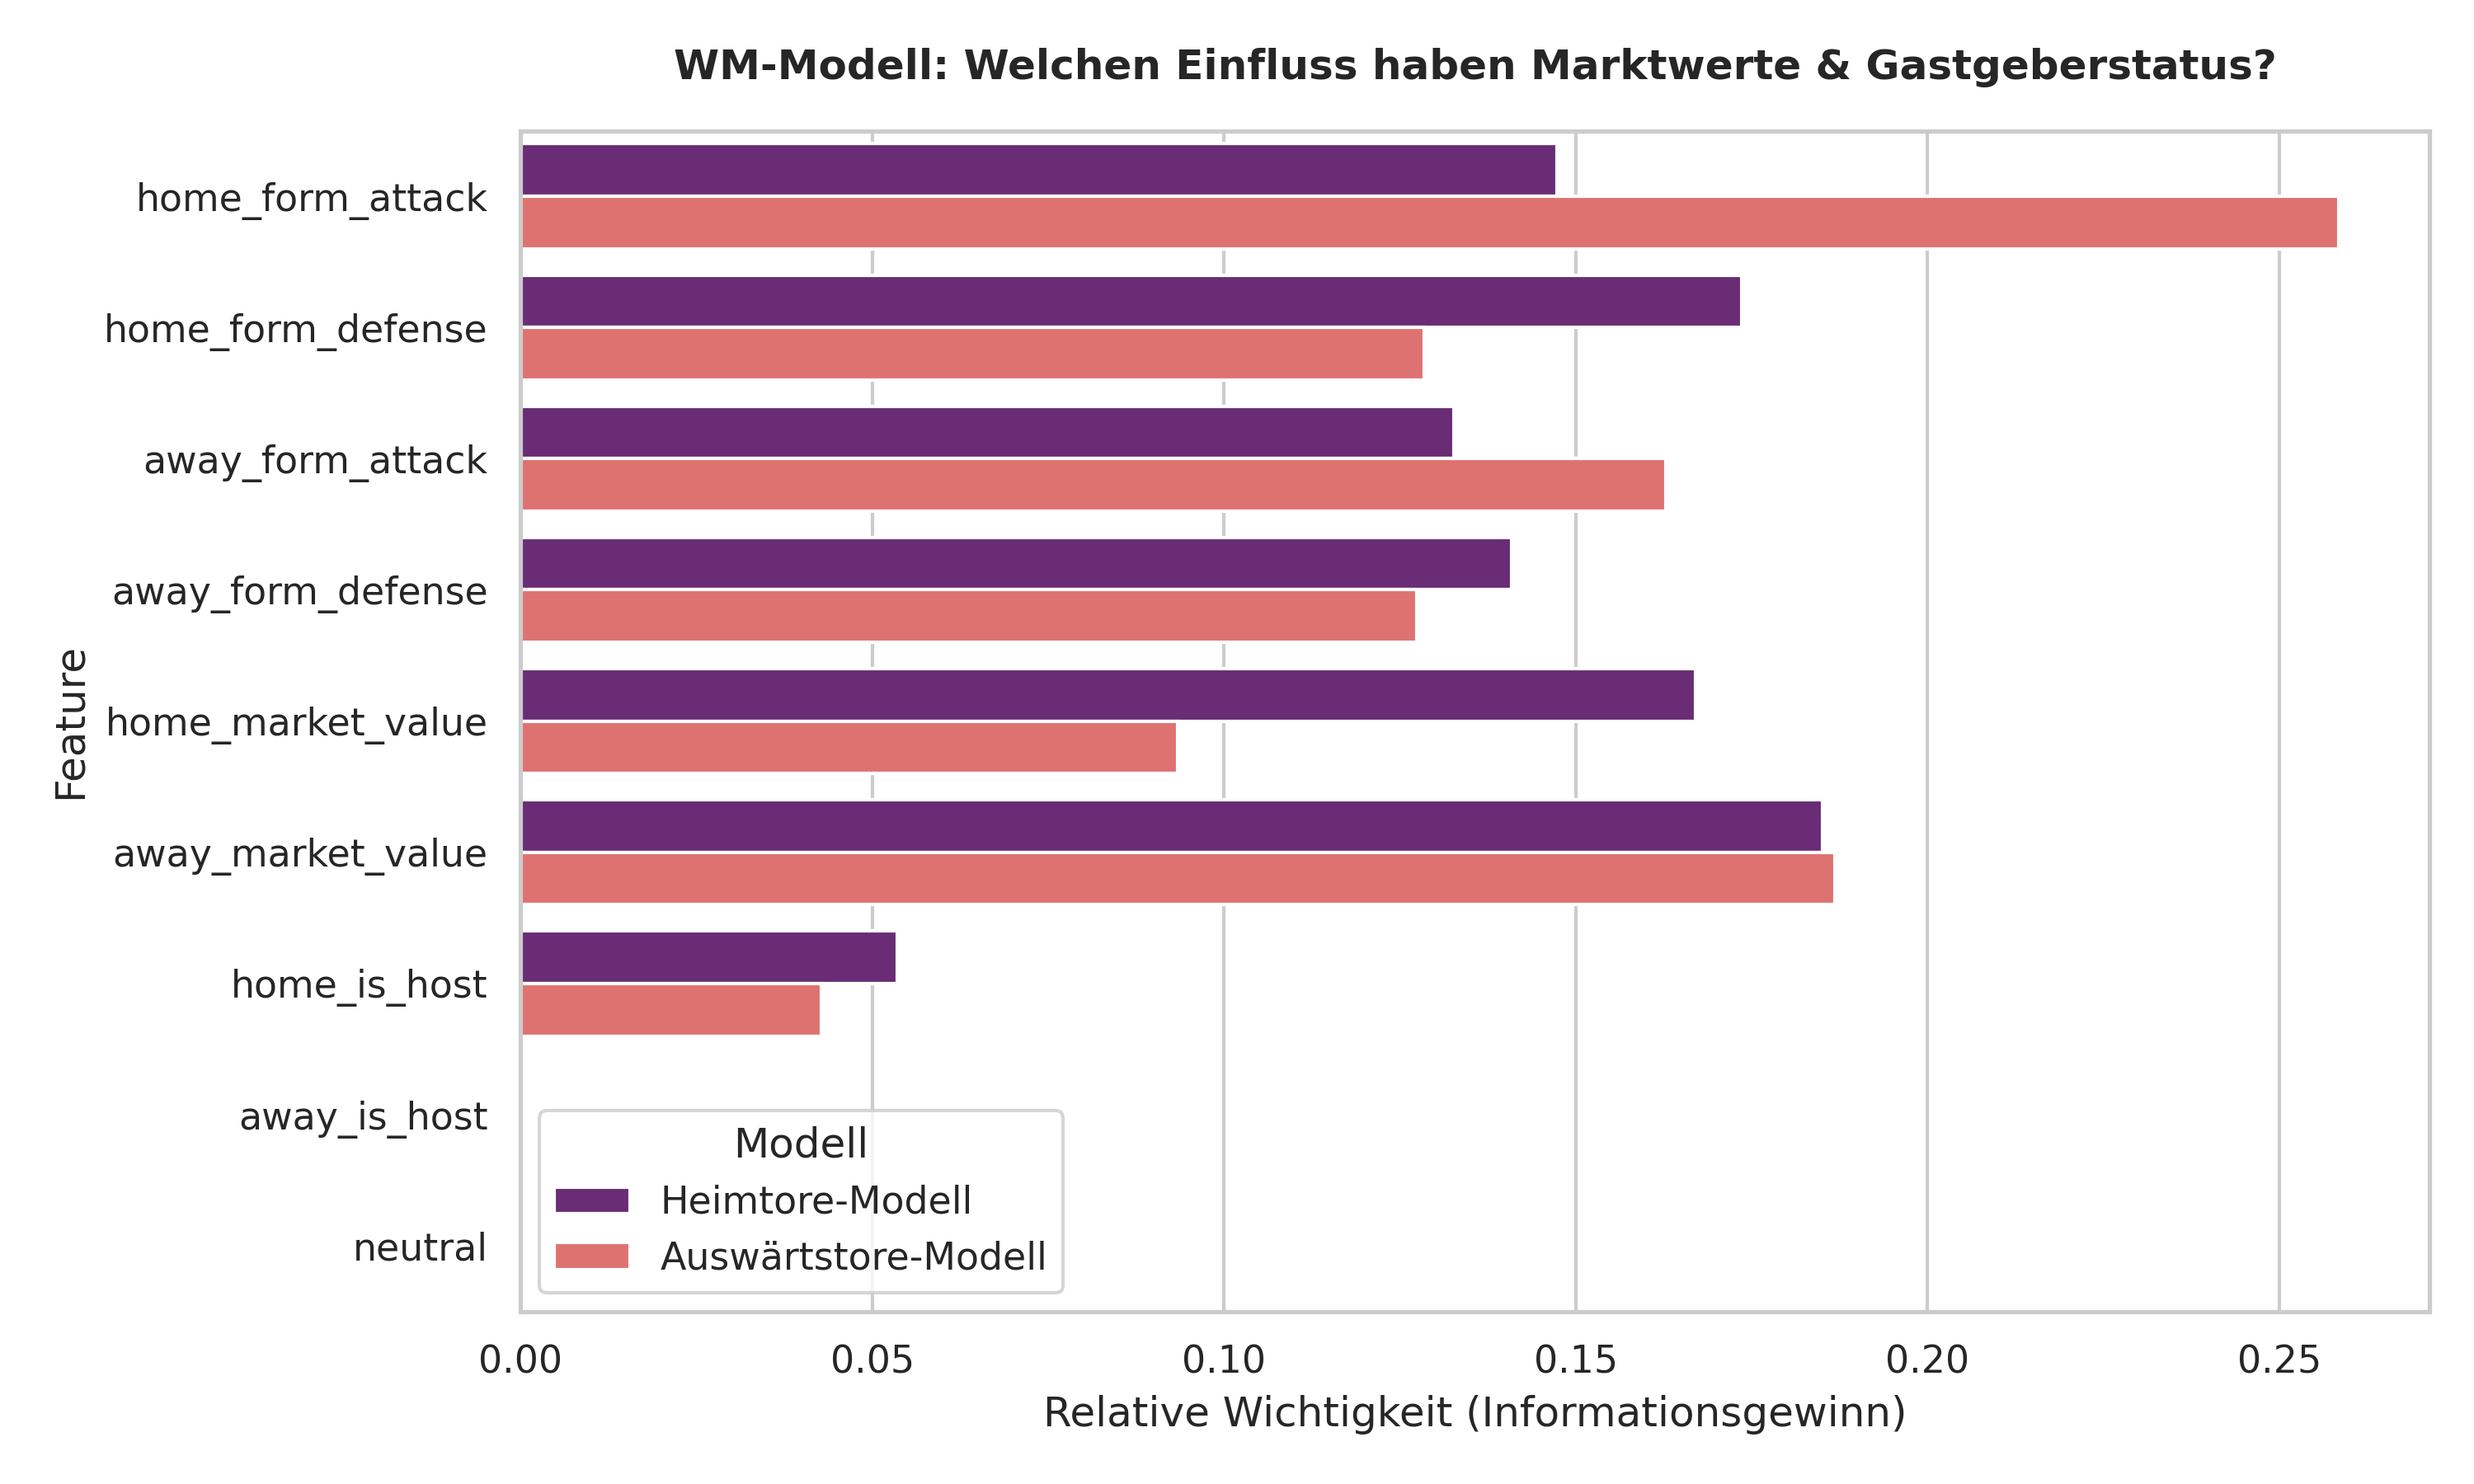
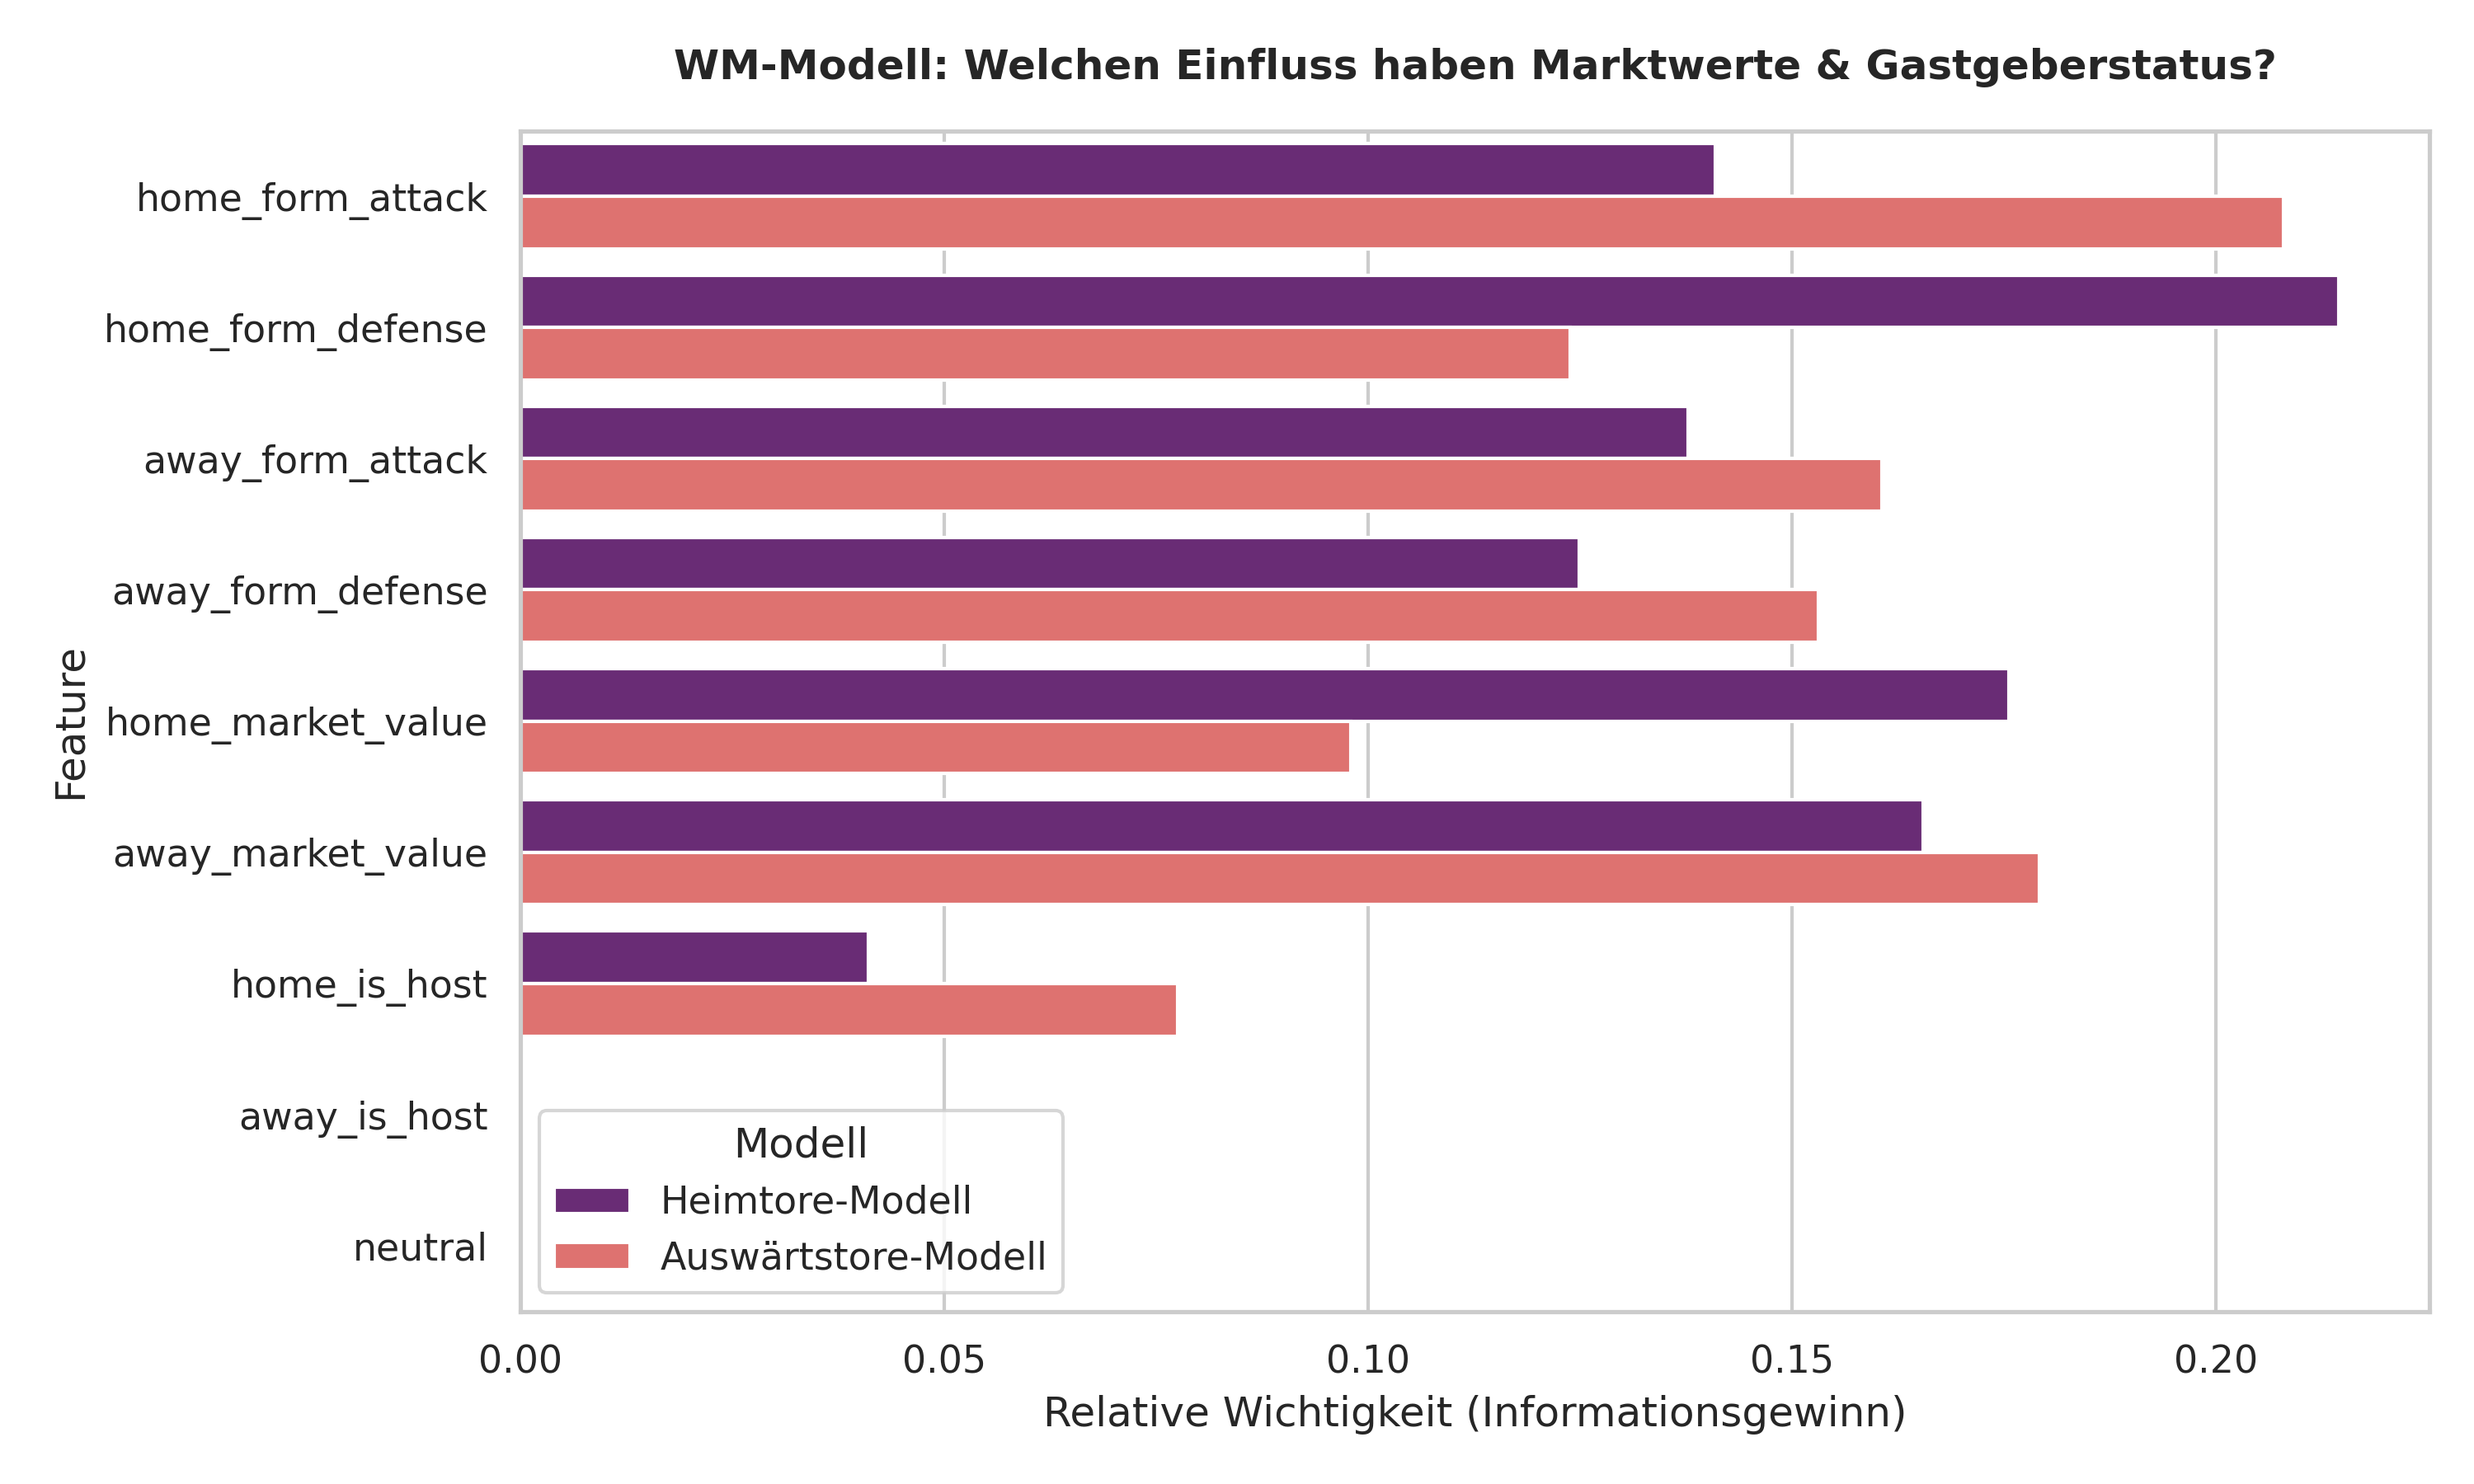
fix: geänderte Hyperparameter

diff --git a/train.py b/train.py
@@ -13,10 +13,29 @@ import yaml
 from sklearn.metrics import mean_absolute_error
 
 
+# Zentrale Hyperparameter für beide Modelle (Heim & Auswärts identisch).
+
+    n_estimators=220,
+    learning_rate=0.02,
+    max_depth=5,
+    subsample=0.7,
+    colsample_bytree=0.7,
+    reg_alpha=0.5,
+    reg_lambda=0.5,
+    random_state=42,
+)
+
+
 def load_config() -> dict:
     """Lädt die zentrale Konfigurationsdatei (config.yaml)."""
     with open("config.yaml", "r", encoding="utf-8") as f:
         return yaml.safe_load(f)
+
+
+def outcome_1x2_vec(home, away):
+    """1 = Heimsieg, 2 = Auswärtssieg, 0 = Remis (für ganze Arrays)."""
+    home, away = np.asarray(home), np.asarray(away)
+    return np.where(home > away, 1, np.where(home < away, 2, 0))
 
 
 def main():
@@ -80,31 +99,12 @@ def main():
     print(f"⚖ Time-Decay aktiv (λ={decay_rate}). "
           f"Gewichtsbereich: {weights.min():.3f} bis {weights.max():.3f}")
 
-    # Stark reguliert (max_depth=3, reg_alpha/lambda) gegen Overfitting auf kleinem Datensatz
-    print("🤖 Trainiere stark reguliertes Modell für HEIM-Tore...")
-    model_home = xgb.XGBRegressor(
-        n_estimators=120,
-        learning_rate=0.02,
-        max_depth=3,
-        subsample=0.7,
-        colsample_bytree=0.7,
-        reg_alpha=1.5,
-        reg_lambda=1.5,
-        random_state=42,
-    )
+    print("🤖 Trainiere Modell für HEIM-Tore...")
+    model_home = xgb.XGBRegressor(**MODEL_PARAMS)
     model_home.fit(X_train, y_home_train, sample_weight=weights)
 
-    print("🤖 Trainiere stark reguliertes Modell für AUSWÄRTS-Tore...")
-    model_away = xgb.XGBRegressor(
-        n_estimators=120,
-        learning_rate=0.02,
-        max_depth=3,
-        subsample=0.7,
-        colsample_bytree=0.7,
-        reg_alpha=1.5,
-        reg_lambda=1.5,
-        random_state=42,
-    )
+    print("🤖 Trainiere Modell für AUSWÄRTS-Tore...")
+    model_away = xgb.XGBRegressor(**MODEL_PARAMS)
     model_away.fit(X_train, y_away_train, sample_weight=weights)
 
     pred_home = model_home.predict(X_test)
@@ -122,10 +122,30 @@ def main():
     )
     print(f"   💡 Zum Vergleich der Turnier-Dummy-Tipp: {baseline_home_mae:.2f}")
 
+    # --- 🎯 Ergebnis-Metriken: messen, was "wer gewinnt" wirklich trifft ---
+    # 1X2 aus den KONTINUIERLICHEN Werten ableiten, nicht aus gerundeten Tipps —
+    # sonst verschwindet ein knapper Favoriten-Vorsprung (1.41 vs 1.05) im Runden.
+    pred_outcome = outcome_1x2_vec(pred_home, pred_away)
+    true_outcome = outcome_1x2_vec(y_home_test, y_away_test)
+    acc_1x2 = (pred_outcome == true_outcome).mean()
+
+    # Exact-Score: beide Tore (gerundet, ≥0) müssen exakt stimmen
+    ph = np.clip(np.round(pred_home), 0, None).astype(int)
+    pa = np.clip(np.round(pred_away), 0, None).astype(int)
+    acc_exact = ((ph == y_home_test.to_numpy()) & (pa == y_away_test.to_numpy())).mean()
+
+    # Baseline "immer Remis" → trifft genau den Anteil echter Unentschieden
+    draw_baseline = (true_outcome == 0).mean()
+
+    print("\n--- 🎯 ERGEBNIS-METRIKEN (WM 2018/2022) ---")
+    print(f"   1X2-Trefferquote (wer gewinnt):  {acc_1x2:.1%}")
+    print(f"   Exact-Score-Trefferquote:        {acc_exact:.1%}")
+    print(f"   💡 Baseline 'immer Remis':       {draw_baseline:.1%}")
+
     os.makedirs("models", exist_ok=True)
     joblib.dump(model_home, "models/wm_home_goals_model.pkl")
     joblib.dump(model_away, "models/wm_away_goals_model.pkl")
-    print("\n💾 Beide High-End-Modelle erfolgreich im Ordner 'models/' gespeichert!")
+    print("\n💾 Beide Modelle erfolgreich im Ordner 'models/' gespeichert!")
 
 
 if __name__ == "__main__":
